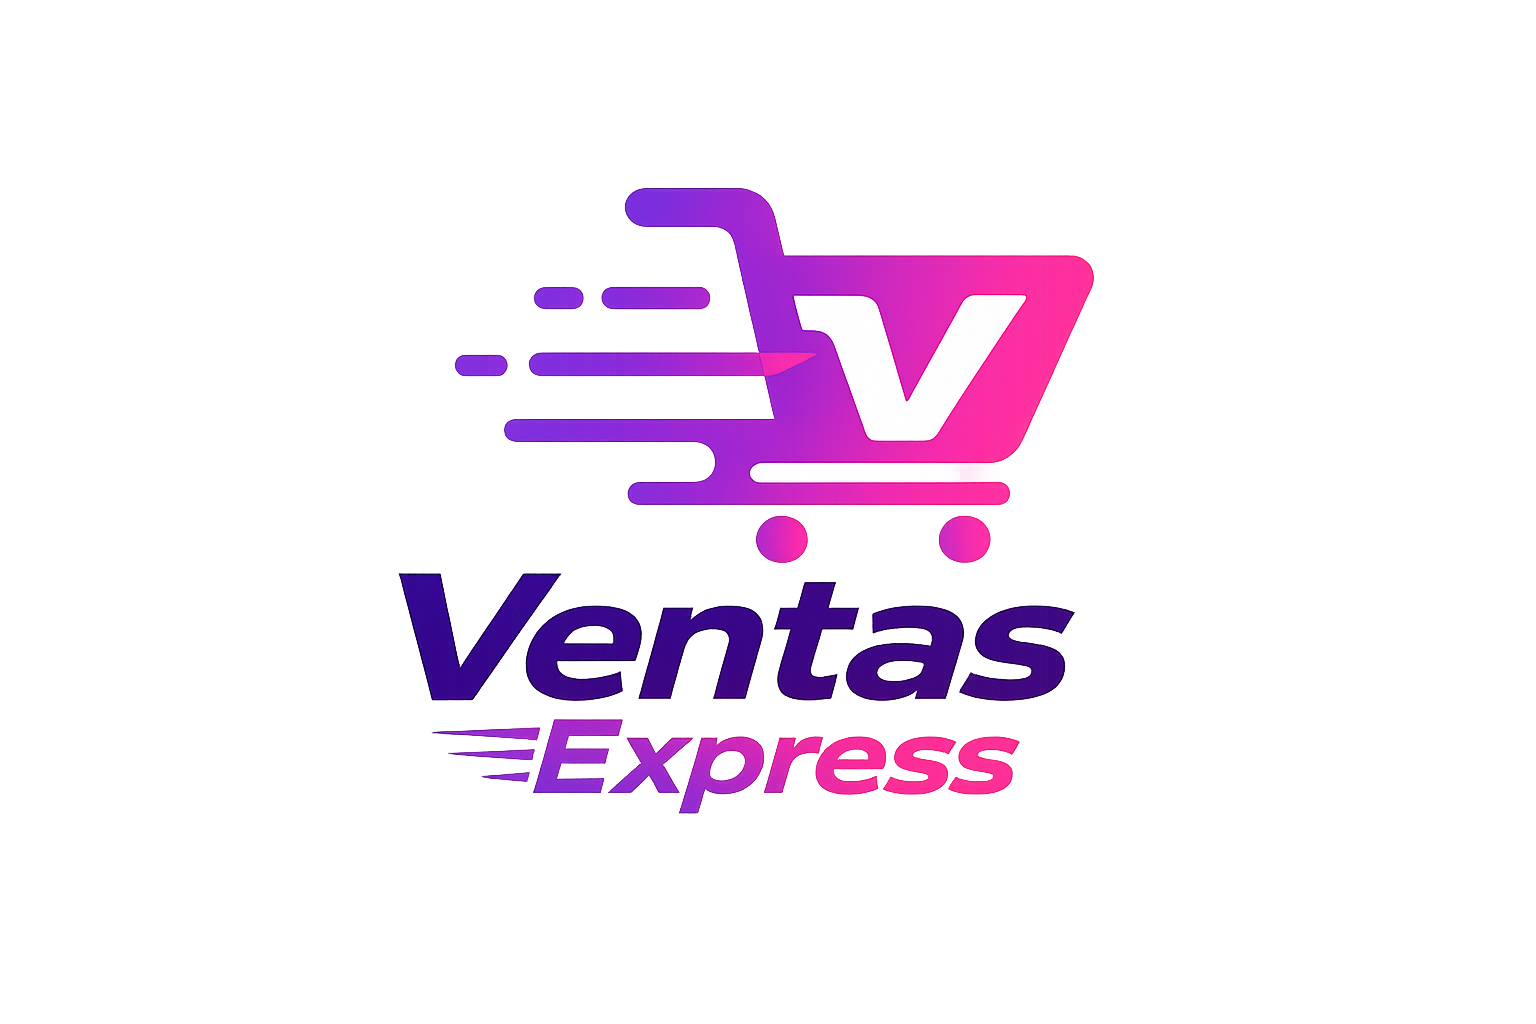
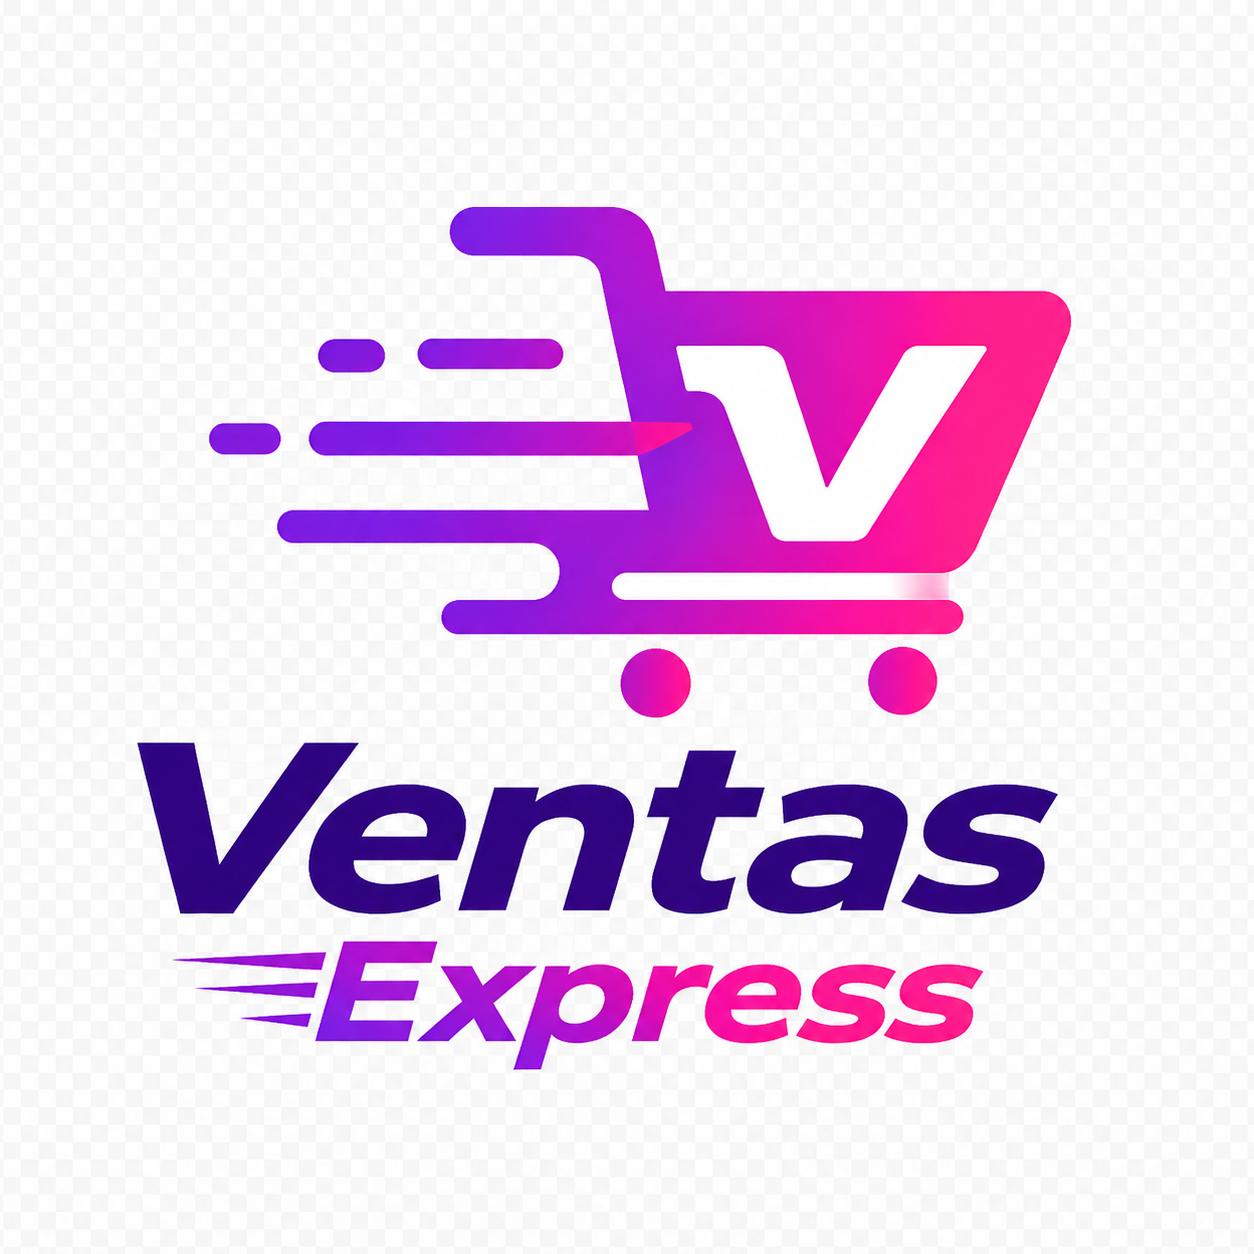
Fixing path for image

Changed region(s): [[0.0933, 0.1562, 0.8708, 0.875]]

diff --git a/src/App.css b/src/App.css
@@ -431,6 +431,12 @@
 }
  */
 
+ input,
+textarea,
+select {
+    font-size: 16px;
+}
+
 
 /* Phones */
 @media screen and (max-width: 480px) {